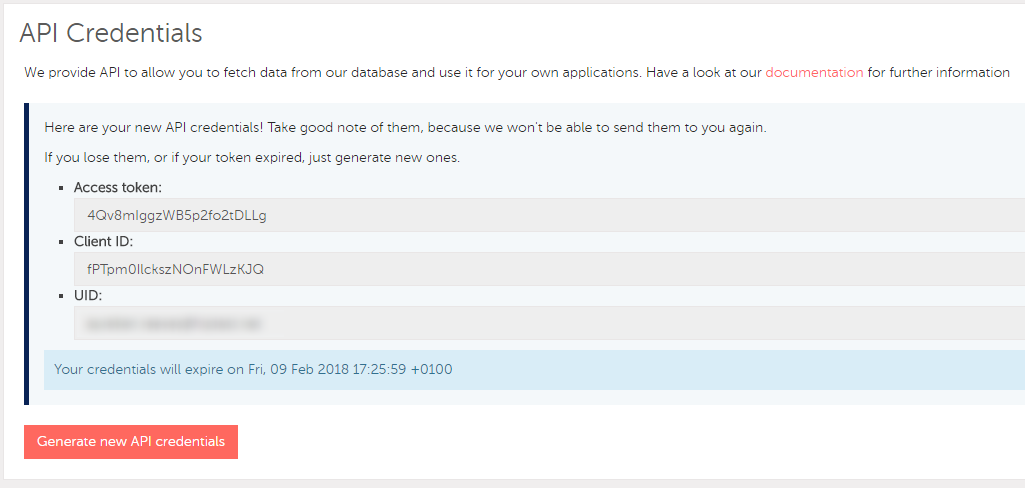
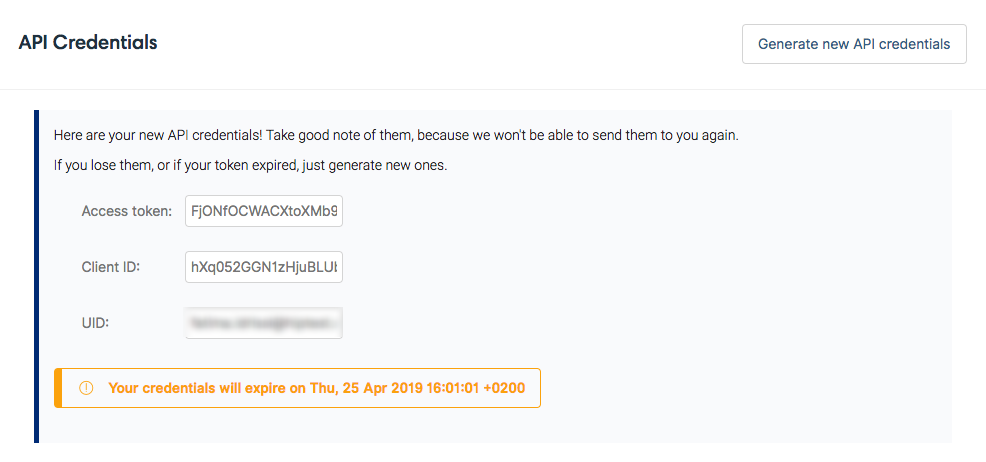
Update the screenshots

Changed region(s): [[0.0, 0.2121, 1.0, 0.9697], [0.0, 0.0303, 1.0, 0.1818]]

diff --git a/source/index.html.md b/source/index.html.md
@@ -147,7 +147,7 @@ retrieve their ID in the address bar of your browser while you are viewing the
 dashboard of your project.
 
 In the following example we are looking for the ID of the sample project
-`Testing CASH WITHDRAWAL`: the ID is 37025.
+`Testing CASH WITHDRAWAL`: the ID is 40849.
 
 ![Retrieve project id](images/getting-started/doc-api-project-id.png)
 
